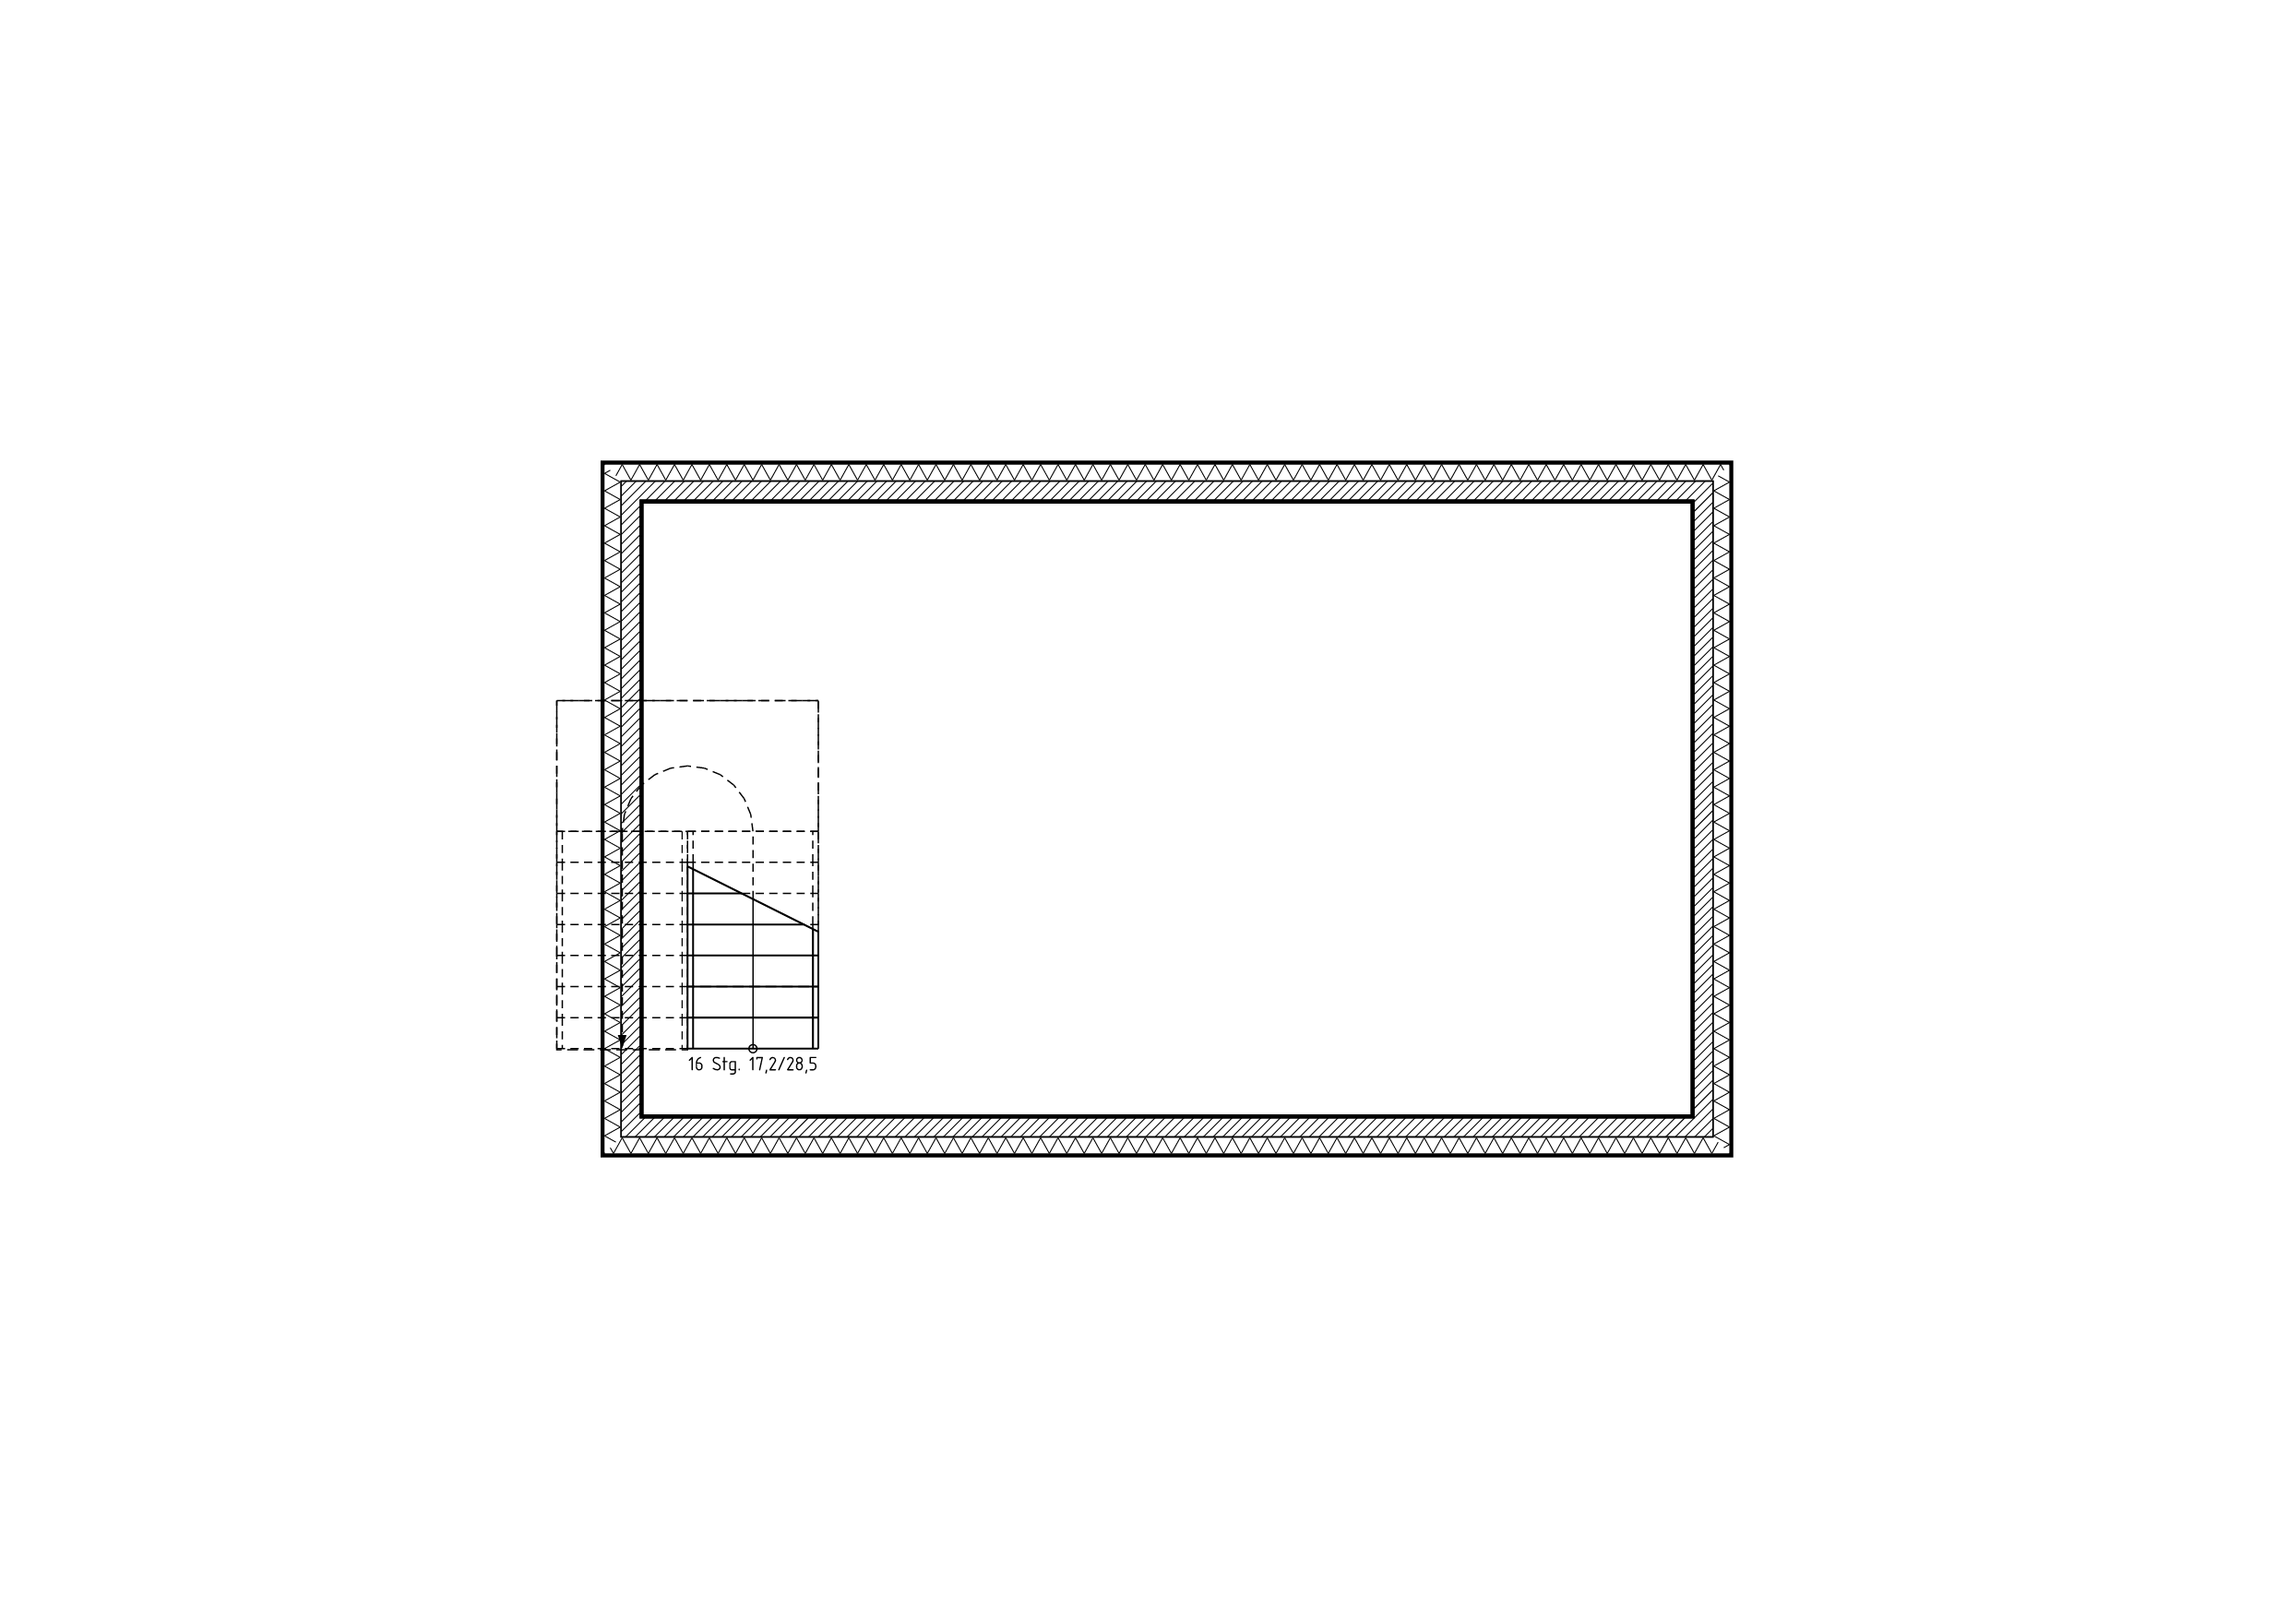
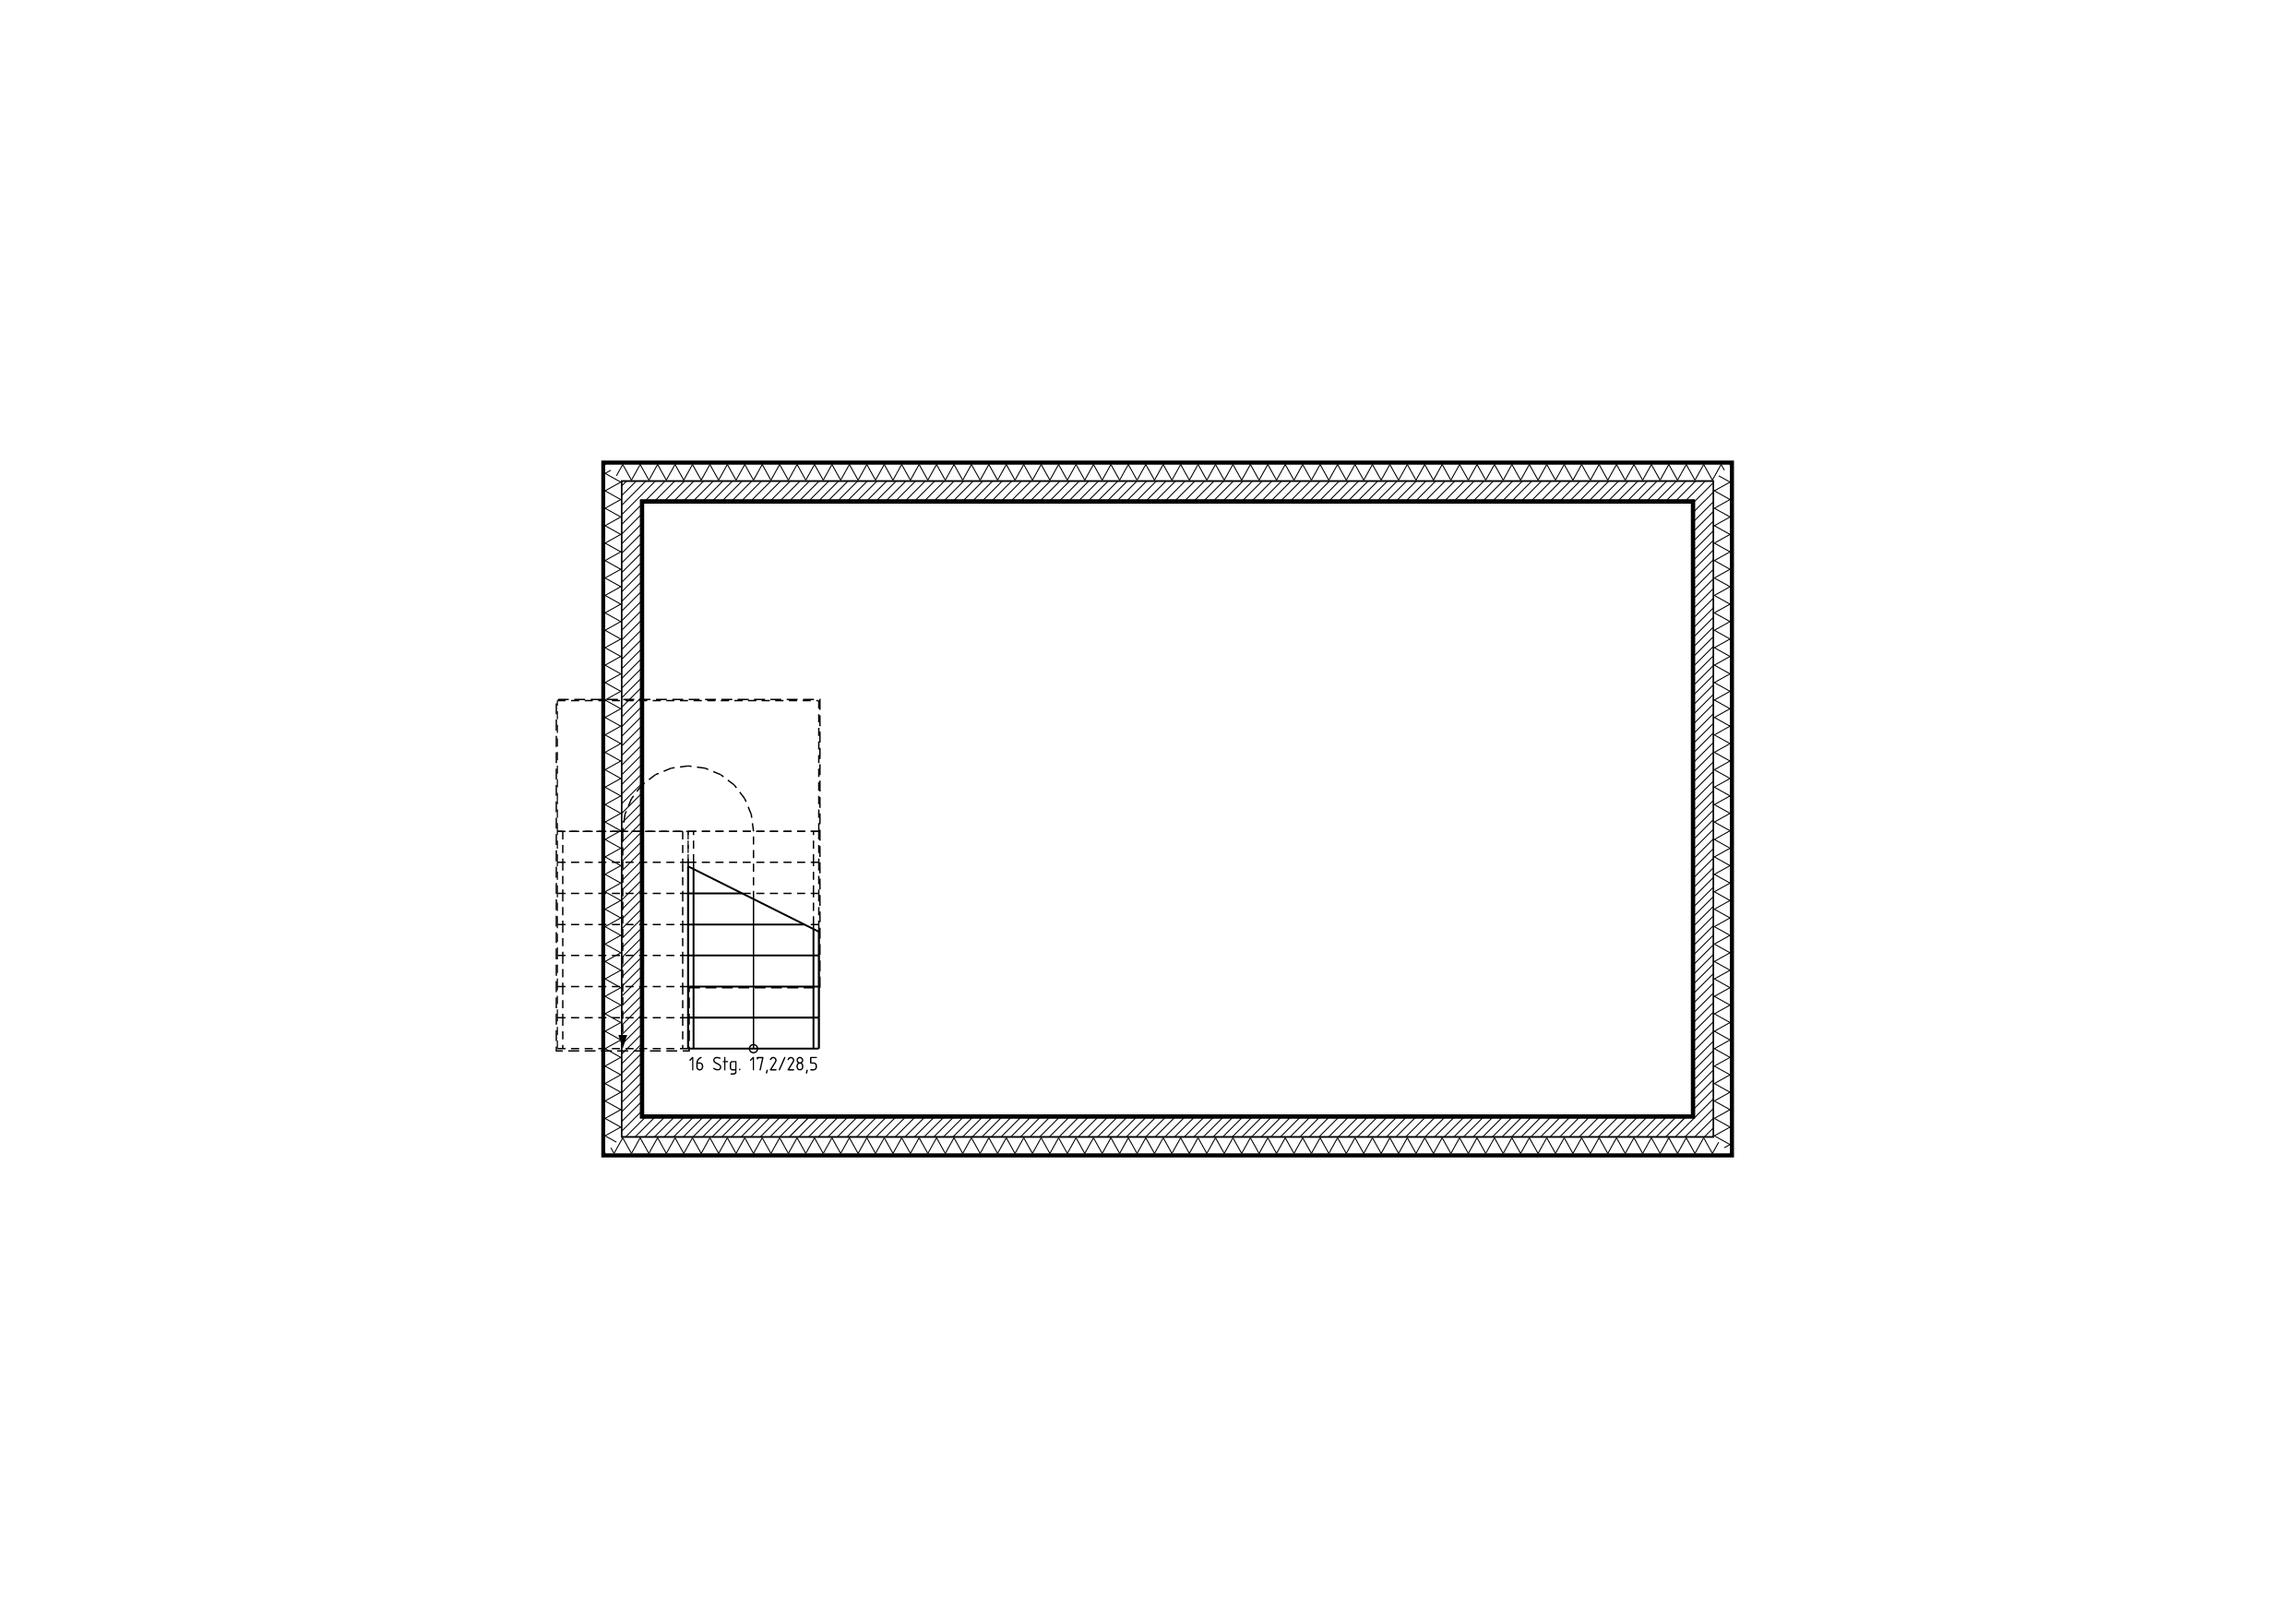
Prüfpaket Decken, Dächer, Treppen mit Gauben-Vergleich und DIN-18065-Recherche, ADR 0051 als umgesetzt bis auf Gauben markiert

diff --git a/core/crates/lot-cli/tests/bauteile.rs b/core/crates/lot-cli/tests/bauteile.rs
@@ -78,6 +78,10 @@ fn mfh_flat_roof() -> (Document, ElementId, ElementId) {
 
 /// Kleines Haus 10 × 6 m mit zwei Geschossen; Treppe mit dem Werkzeug.
 fn stair_house() -> (Document, ElementId, ElementId) {
+    stair_house_with(stairs::StairForm::HalfLanding, (1.2, 0.8), (1.2, 4.0))
+}
+
+fn stair_house_with(form: stairs::StairForm, a: (f64, f64), b: (f64, f64)) -> (Document, ElementId, ElementId) {
     let mut doc = Document::new(Project::template("Treppe"));
     doc.set_follow(lot_edit::follow::follow_ops);
     let mut ed = Editor::new(doc.project());
@@ -95,9 +99,9 @@ fn stair_house() -> (Document, ElementId, ElementId) {
         click(&mut doc, &mut ed, x, y);
     }
     ed.run(&mut doc, &Command::SetStorey(eg.0));
-    ed.run(&mut doc, &Command::StairTool(stairs::StairForm::HalfLanding));
-    click(&mut doc, &mut ed, 1.2, 0.8);
-    click(&mut doc, &mut ed, 1.2, 4.0);
+    ed.run(&mut doc, &Command::StairTool(form));
+    click(&mut doc, &mut ed, a.0, a.1);
+    click(&mut doc, &mut ed, b.0, b.1);
     (doc, eg, og)
 }
 
@@ -184,4 +188,12 @@ fn pruefbilder() {
     let (doc, eg, og) = stair_house();
     write("treppe-eg", &centered("Treppe aus dem Werkzeug, EG 1:50", plan(doc.project(), eg, 50.0)));
     write("treppe-og", &centered("Treppenloch mit Umwehrung, OG 1:50", plan(doc.project(), og, 50.0)));
+    for (form, name, a, b) in [
+        (stairs::StairForm::QuarterWinder, "treppe-viertelgewendelt", (6.0, 0.8), (6.0, 4.0)),
+        (stairs::StairForm::HalfWinder, "treppe-halbgewendelt", (6.0, 0.8), (6.0, 4.0)),
+        (stairs::StairForm::Spiral, "spindeltreppe", (5.0, 3.0), (6.4, 3.0)),
+    ] {
+        let (doc, eg, _) = stair_house_with(form, a, b);
+        write(name, &centered(&format!("{}, EG 1:50", form.title()), plan(doc.project(), eg, 50.0)));
+    }
 }

diff --git a/pruefpakete/2026-10-28-bauteile/README.md b/pruefpakete/2026-10-28-bauteile/README.md
@@ -1,0 +1,73 @@
+# Decken, Dächer und Treppen: zum Ausprobieren in der App
+
+28.10.2026. Etwa 25 Minuten, davon 10 auf dem iPhone (Bilder, Gauben-Vergleich, Fragen) und 15 **am Mac** in der App. Umsetzung von ADR 0051. Branch `bedienung-bauteile`, baut auf `bedienung-sichtbarkeit` auf.
+
+## Erst auf dem iPhone
+
+- `mfh-flachdach-aufsicht.png`: MFH mit Flachdach statt Satteldach, Aufsicht. Pfeil in Fließrichtung mit „2,0 %“, ein Ablauf (Kreis mit Kreuz) und ein Notüberlauf („NÜ“).
+- `mfh-flachdach-schnitt.png`: Schnitt durch das Gefälle 1:50. Die Gefälledämmung wird gegen die Fließrichtung dicker, Kies und Abdichtung steigen mit, die Rohdecke bleibt eben.
+- `treppe-eg.png` und `treppe-og.png`: Treppe zweiläufig mit Halbpodest aus dem Werkzeug. Unten die Geländer an den freien Seiten, oben das Treppenloch mit Umwehrung, die Seite des Austritts bleibt offen.
+- `treppe-viertelgewendelt.png`, `treppe-halbgewendelt.png`, `spindeltreppe.png`: gewendelte Treppen und eine Spindeltreppe aus dem Werkzeug, alle nach DIN 18065 geprüft.
+- `gauben.md`: der Vergleich der Gauben in Revit, Archicad, Vectorworks und Allplan mit Vorschlag (ADR 0051 verlangt ihn vor dem Bauen). Quellen in `recherche-gauben.md`.
+- `recherche-din18065-wendel.md`: die Werte für gewendelte und Spindeltreppen mit Fundstellen. Den Normtext gibt es frei als PDF; bitte die Fundstellen einmal gegen dein Exemplar halten.
+
+## Dann am Mac
+
+App bauen und starten wie in `CLAUDE.md` (Xcode ⌘R), Ablage, Testprojekt öffnen (⇧⌘O), `testprojekte/efh`. Neue Werkzeuge im Menü Werkzeug und in der Leiste unter „Treppe“ und „Dach und Decke“.
+
+**Decken folgen den Wänden**
+- „Decke aus Wänden“ legt die Decke an die Außenkante der Tragschicht und merkt sich die Wände.
+- Wand verschieben: Die Decke folgt, im selben Schritt beim Widerrufen.
+- Decke wählen: Im Plan sind die Kanten blau, wo sie einer Wand folgen, orange und gestrichelt, wo sie frei sind.
+- Wand löschen oder anbauen: Der Umriss bleibt, die Decke ist im Inspektor markiert, „Umriss neu aus den Wänden“ übernimmt ihn.
+
+**Gefälle** (Decke wählen, Inspektor)
+- Gefälle an, Verwendung (Flachdach, Balkon, Dusche), Prozent, Fließrichtung in Grad, in welcher Schicht.
+- AB setzt einen Ablauf, NU einen Notüberlauf.
+- Der Prüfbericht hat einen neuen Abschnitt „Gefälle“.
+
+**Dächer**
+- Satteldach, Walmdach oder Flachdach über dem Geschoss. Das Flachdach kommt als Decke der Art Flachdach ins Geschoss darüber, das Lot bei Bedarf als „Dach“ anlegt, mit 2 % Gefälle in der Dämmung.
+- DK und Klick auf eine Dachkante wechselt Traufe und Giebel. Im Inspektor stehen je Kante Traufe oder Giebel, Neigung und Überstand.
+- Die Wände reichen danach bis unter das Dach.
+
+**Treppen** (TP oder Leiste „Treppe“)
+- Formen: gerade, zweiläufig mit Halbpodest, L-Form mit Viertelpodest, viertelgewendelt, halbgewendelt, Spindeltreppe.
+- Antritt klicken, dann die Richtung. Bei der Spindeltreppe erst den Mittelpunkt, dann den Antritt außen; der Abstand ist der Radius. Die Leertaste wechselt die Seite der Wendung beziehungsweise den Drehsinn.
+- Steigungen und Auftritt rechnet Lot aus der Geschosshöhe. Am Zeiger steht die Ampel nach DIN 18065, grün oder rot mit Grund, etwa „16 Stg. 17,2/28,5 · DIN 18065 erfüllt“.
+- Die Treppe schneidet ihr Loch in die Decke darüber, so groß, wie die Durchgangshöhe es verlangt. Geländer kommen an die freien Seiten, eine Umwehrung um das Loch.
+- Loch und Umwehrung folgen der Treppe, wenn du sie verschiebst, und gehen mit, wenn du sie löschst.
+
+## Fragen
+
+1. **Gauben, Formen (gauben.md):** Vorschlag zuerst Schlepp, Flach, Satteldach, Walm und Spitz, danach Trapez, Tonne, Fledermaus, Ochsenauge. Passt die Reihenfolge?
+2. **Gauben, Höhe:** Traufhöhe vorn und Neigung führen, die Anschlusshöhe am Hauptdach zeigt Lot an und lässt sie tippen. Ok?
+3. **Gauben im Umbauplan:** neue Gaube im Bestandsdach mit gelbem Ausbruch und roter Gaube, wie eine neue Öffnung in einer Bestandswand. Passt das?
+4. **Gefälle:** Flachdach 2 %, darunter Hinweis „Sonderkonstruktion“; Balkon, Loggia, Terrasse 2 %; bodengleiche Dusche 2 %. Jede Dachfläche braucht Ablauf und Notüberlauf. Werte so übernehmen?
+5. **Flachdach:** Decke der Art Flachdach im Geschoss darüber. Aufbau ab Werk: Kies 5, Abdichtung 1, Gefälledämmung 16, Stahlbeton 20, Putz 1,5 cm. Die Attika fehlt noch. Vorschlag: Attika als nächster Schritt. Ok?
+6. **Decke folgt den Wänden:** Kommt eine Wand dazu oder fehlt eine, bleibt der Umriss und die Decke ist markiert, statt still zu wachsen oder zu schrumpfen. Ok?
+7. **Treppenvorschlag:**
+   - Steigung nahe 17,5 cm (Wohngebäude) oder 17 cm (sonst), Auftritt aus 63 cm Schrittmaß.
+   - Laufbreite 1,00 m beziehungsweise 1,20 m.
+   - Geländer 0,90 m an freien Seiten.
+   
+   Passt das?
+8. **Gewendelte Treppen:**
+   - Lot verzieht nach der Verhältnismethode, die Lauflinie liegt in der Mitte, bei mehr als 1,00 m Laufbreite 50 cm von innen.
+   - Halbgewendelte Treppen bekommen ein Treppenauge von 20 cm.
+   
+   Welche Methode nutzt dein Treppenbauer, und passt das Auge?
+9. **Durchgangshöhe in Wohngebäuden:** DIN 18065 Bild A.8b lässt an den Rändern 1,75 m zu (25 × 25 cm Ecke), Lot prüft heute überall 2,00 m. Vorschlag: nach A.8b prüfen. Ok?
+10. **Spindeltreppe:** Steigung bis 19 cm, Lauflinie 4/10 der Laufbreite von außen. In sonstigen Gebäuden beginnt die nutzbare Laufbreite erst, wo der Auftritt 10 cm erreicht (6.2.4), dort muss die Treppe also größer werden. Brauchst du Spindeltreppen als notwendige Treppe außerhalb von Wohngebäuden?
+
+## Noch nicht gebaut
+
+- **Gauben:** Gebaut wird nach deinen Antworten auf den Vergleich.
+- **Dächer:** Attika am Flachdach. Neigung am Griff im Plan (heute im Inspektor). Pultdach als eigene Form (geht über Kanten: eine Traufe, drei Giebel).
+- **Gefälle:** zu mehreren Abläufen mit Kehlen und Graten (heute eine Richtung je Decke).
+- **Treppen bearbeiten mit Griffen:** Laufbreite ziehen, Podest einfügen. Heute ändert man sie in der Projektdatei.
+- **Treppen:** Geländer an gewendelten und Spindeltreppen. Podestregeln der DIN (18 Steigungen, Podesttiefe).
+
+## Was ich nicht selbst prüfen konnte
+
+Dein Bildschirm lag wieder in einer Vollbild-App, deshalb habe ich die App nicht selbst bedient. Die neuen Werkzeuge, das Folgen der Decken, das Gefälle, die Dachkanten und die Treppen mit Loch, Geländer und DIN-Prüfung sind im Kern mit Tests abgesichert, auch am MFH. Die Bilder kommen aus denselben Funktionen.

diff --git a/docs/entscheidungen/0051-decken-daecher-treppen.md b/docs/entscheidungen/0051-decken-daecher-treppen.md
@@ -1,6 +1,6 @@
 # 0051 Decken, Dächer und Treppen in der App
 
-Status: entschieden von Ben · 26.10.2026; Gefällewerte sind mein Vorschlag, Ben prüft
+Status: entschieden von Ben · 26.10.2026; umgesetzt am 28.10.2026 bis auf Gauben und die offenen Punkte unter „Folgen“; Gefällewerte sind mein Vorschlag, Ben prüft
 
 ## Kontext
 
@@ -27,3 +27,5 @@ Ben am 26.10.2026: „27 ok“, zum Gefälle „28 ok mach einen vorschlag“, z
 
 - Gauben bekommen vor dem Bauen einen kurzen eigenen Vergleich (Formen, Anschluss an das Hauptdach), weil Ben sie als Revit-Schwäche nennt.
 - Die DIN-18065-Werte für gewendelte und Spindeltreppen kommen als Daten mit Quelle; offene Werte gehen als Frage ins Prüfpaket.
+- Umgesetzt (28.10.2026): Decken folgen den Wänden (`Slab::follows_walls`, Nachführen über `Document::set_follow`), Gefälle als Schicht mit Abläufen und Notüberläufen, Prüfung nach `normen/gefaelle.ron`, Walm- und Flachdach, Dachkanten umschalten, Treppenwerkzeug für gerade, Halb- und Viertelpodest, viertel- und halbgewendelt (Verhältnismethode) und Spindeltreppe, DIN-18065-Ampel, Treppenloch und Umwehrung verbunden. Gauben-Vergleich in `pruefpakete/2026-10-28-bauteile/gauben.md`, gebaut wird nach Bens Antwort.
+- Offen: Gauben, Attika, Neigung am Griff, Gefälle zu mehreren Abläufen, Treppen mit Griffen bearbeiten, Geländer an gewendelten und Spindeltreppen, Podestregeln der DIN 18065.

diff --git a/pruefpakete/2026-10-28-bauteile/gauben.md b/pruefpakete/2026-10-28-bauteile/gauben.md
@@ -41,6 +41,8 @@ Anlass: ADR 0051, Gauben sind „in revit sehr schlecht umgesetzt“. Quellen un
 
 ## Fragen an Ben
 
+Die Fragen 1, 3 und 4 stehen auch in der README dieses Prüfpakets; 2 und 5 haben Zeit bis zum Bau der Gauben.
+
 1. **Reihenfolge der Formen.** Vorschlag: zuerst Schlepp, Flach, Satteldach, Walm und Spitz, danach Trapez, Tonne, Fledermaus und Ochsenauge, ohne Änderung am Modell.
 2. **Gaube in der Flucht der Außenwand** (Traufe unterbrochen, auch Zwerchhaus): gehört das zur Gaube? Vorschlag: ja, als Lage „in der Außenwand“; die Außenwand darunter läuft bis unter das Gaubendach durch. Ein Zwerchgiebel mit eigenem First quer zum Hauptfirst kommt später als Dachform.
 3. **Welche Höhe führt?** Vorschlag: Traufhöhe vorn und Neigung wie heute; die Anschlusshöhe am Hauptdach zeigt Lot an, und tippt man sie, ändert sich die Neigung. Bei Satteldachgauben wahlweise die Firsthöhe statt der Neigung.

diff --git a/docs/entscheidungen/README.md b/docs/entscheidungen/README.md
@@ -54,4 +54,4 @@ Kurze Festlegungen mit Kontext, Entscheidung, Alternativen und Folgen. Bens Ents
 | [0048](0048-typen-und-eigenschaften.md) | Typen und Eigenschaften | umgesetzt, Teile offen, Ben testet |
 | [0049](0049-navigation.md) | Navigation: Seitenleiste, Geschosse, Schnitte und Blätter | umgesetzt, Teile offen, Ben testet |
 | [0050](0050-sichtbarkeit.md) | Sichtbarkeit und Ansichtsvorlagen | umgesetzt, Teile offen, Ben testet |
-| [0051](0051-decken-daecher-treppen.md) | Decken, Dächer und Treppen in der App | entschieden |
+| [0051](0051-decken-daecher-treppen.md) | Decken, Dächer und Treppen in der App | umgesetzt bis auf Gauben, Ben testet |
